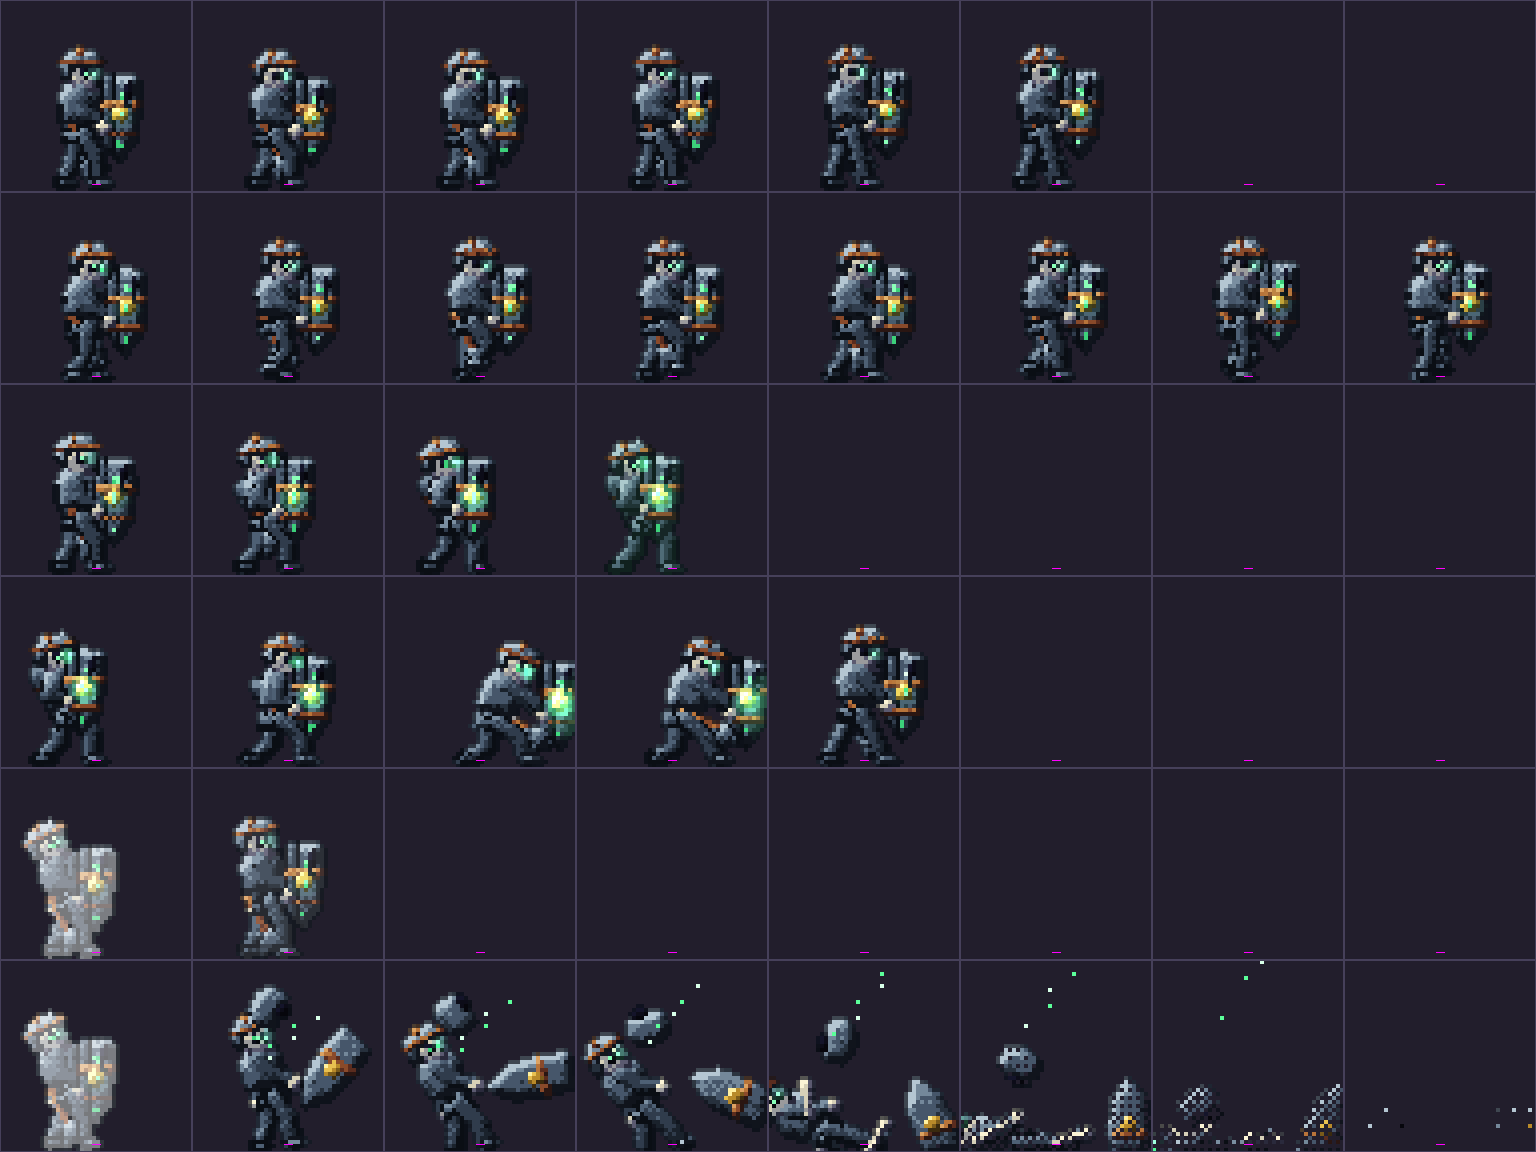
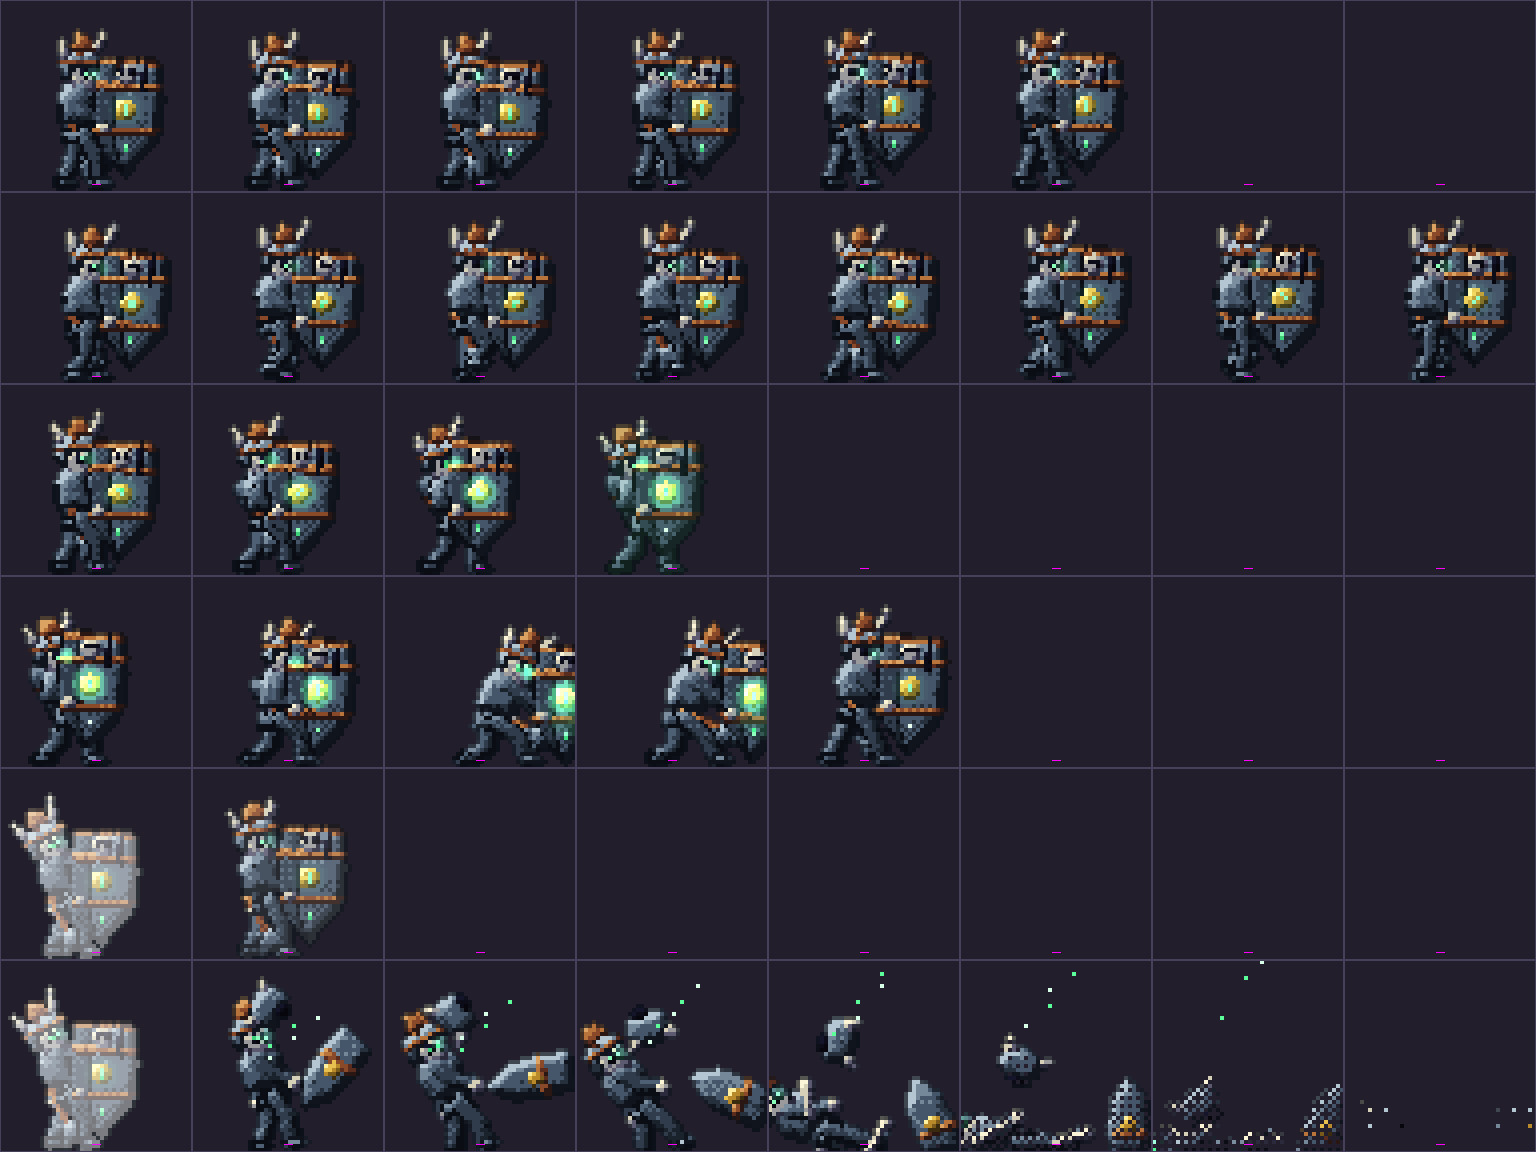
Enemigos (piloto): escudero de hueso con escudo de torre grande y yelmo con cuernos y cresta
Claude-Session: https://claude.ai/code/session_011eeWNo3MRZcztybaatA5Az

diff --git a/tools/art_enemies/en_nuevos_a.py b/tools/art_enemies/en_nuevos_a.py
@@ -84,34 +84,46 @@ def esc_head(c, x, y, ang, P):
         with c.part(RUSTY, bevel=0.8) as p:
             p.limb((-4.8, -2.6), (4.6, -3.0), 0.55)                                           # banda oxidada
             p.ell(-1.0, -5.0, 0.9)
+        if not P.get('nohorn'):                                                               # cuernos de hueso (en la muerte se van con el yelmo)
+            with c.part(BONE, line=0.4, bevel=0.9) as p:
+                p.poly([(-4.4, -3.2), (-5.8, -4.2), (-6.0, -9.0), (-4.4, -6.6), (-3.2, -5.2)])
+                p.poly([(2.8, -5.0), (4.8, -6.0), (5.4, -11.6), (3.6, -8.2), (1.6, -5.6)])
+        with c.part(RUSTY, line=0.4, bevel=0.9) as p:                                         # cresta
+            p.poly([(-2.6, -5.4), (-1.4, -9.8), (1.6, -9.0), (3.0, -5.4)])
 
 
 def esc_front(c, P, rear, front):
     """Escudo de torre en la mano cercana + la maza en la lejana."""
     hx_, hy_ = rear
     bash = P['bash']
-    with c.at(hx_ + 2.6, hy_ - 1.4, 0.04):
-        with c.part(PLATE, line=0.6, bevel=1.8) as p:
-            p.poly([(-4.2, -10.8), (4.4, -10.4), (5.0, -3), (4.6, 5.0), (0.6, 10.8), (-3.8, 5.6), (-4.8, -3)])
+    with c.at(hx_ + 3.6, hy_ - 2.2, 0.04):
+        with c.part(PLATE, line=0.6, bevel=2.0) as p:               # escudo de torre grande (cubre medio cuerpo)
+            p.poly([(-6.6, -14.0), (8.6, -13.6), (9.6, -4.0), (8.8, 6.0), (1.2, 15.0), (-5.8, 7.0), (-7.6, -4.0)])
         with c.part(PLATE_D, line=0.5, bevel=1.0) as p:
-            p.poly([(-4.2, -10.8), (-1.6, -10.7), (-1.0, 7.0), (0.6, 10.8), (-3.8, 5.6), (-4.8, -3)])      # cara en sombra
-        with c.part(RUSTY, line=0.4, bevel=1.0) as p:
-            p.poly([(-4.4, -4.2), (4.8, -4.4), (4.8, -2.2), (-4.6, -2.0)])                                 # bandas
-            p.poly([(-4.0, 3.0), (4.5, 2.8), (4.4, 4.6), (-3.8, 4.8)])
+            p.poly([(-6.6, -14.0), (-2.0, -13.9), (-1.2, 8.5), (1.2, 15.0), (-5.8, 7.0), (-7.6, -4.0)])      # cara en sombra
+        with c.part(RUSTY, line=0.4, bevel=1.0) as p:               # refuerzos oxidados y remaches
+            p.poly([(-7.2, -8.4), (9.4, -8.6), (9.4, -6.4), (-7.4, -6.2)])
+            p.poly([(-7.0, 3.2), (9.0, 3.0), (8.6, 5.0), (-6.6, 5.4)])
+            p.poly([(-6.6, -14.0), (8.6, -13.6), (8.7, -12.2), (-6.6, -12.6)])           # remate superior
         with c.part(GOLDT, bevel=0.8) as p:
-            p.ell(0.4, -1.0, 2.0)                                                                           # ombligo
-        with c.part(RUNE) as p:
-            p.rect(-0.2, -6.6, 1.0, -5.0); p.rect(-0.2, 6.0, 1.0, 7.4)
-            p.limb((0.4, -1.6), (0.4, -0.2), 0.45)
-        c.glow(0.4, -1.0, 4.2, SOUL, 0.10 + 0.55 * P['glow'])
+            p.ell(0.8, -1.4, 2.7)                                                          # umbo
+        with c.part(BONE, bevel=0.7, line=0.3) as p:                # calavera emblema
+            p.ell(0.8, -10.6, 2.6, 2.3)
+            p.rect(-0.6, -9.2, 2.2, -7.6)
         with c.part(DARK) as p:
-            p.poly([(2.4, -10.3), (3.3, -6.0), (2.2, -4.8), (3.0, -3.0), (1.6, -2.4), (1.4, -7.6)])      # grieta
+            p.ell(-0.2, -10.8, 0.7, 0.8); p.ell(1.8, -10.8, 0.7, 0.8)
+        with c.part(RUNE) as p:
+            p.rect(0.4, 7.0, 1.4, 9.0)
+            p.limb((0.8, -2.2), (0.8, -0.6), 0.45)
+        c.glow(0.8, -1.4, 5.0, SOUL, 0.10 + 0.55 * P['glow'])
+        with c.part(DARK) as p:
+            p.poly([(5.4, -13.4), (6.5, -9.0), (5.2, -7.8), (6.1, -5.8), (4.6, -5.2), (4.4, -10.4)])      # grieta
     # mano agarrando
     with c.part(BONE, bevel=0.6) as p:
         p.ell(hx_ - 1.0, hy_ + 1.0, 1.5)
     if bash > 0.7:
         for q in range(6):
-            c.dotw(hx_ + 9 + (q % 3) * 2.2, hy_ - 9 + q * 3.4, '#e8fff0' if q % 2 else SOUL)
+            c.dotw(hx_ + 11 + (q % 3) * 2.2, hy_ - 9 + q * 3.4, '#e8fff0' if q % 2 else SOUL)
         c.glow(hx_ + 7, hy_ - 1, 9, SOUL, 0.25)
 
 
@@ -152,6 +164,9 @@ def _p_shield(c):
 def _p_helm(c):
     with c.part(PLATE, line=0.5, bevel=1.8) as p:
         p.poly([(-4.8, 1.4), (-5.2, -3.4), (-2.4, -5.6), (2.8, -5.4), (4.8, -3.2), (4.4, 1.4)])
+    with c.part(BONE, bevel=0.8) as p:
+        p.poly([(-4.0, -2.4), (-5.8, -3.0), (-6.6, -6.2), (-3.4, -4.4)])
+        p.poly([(3.0, -3.8), (5.0, -4.0), (6.4, -6.8), (3.6, -5.4)])
     with c.part(DARK) as p:
         p.ell(1.0, 2.0, 1.8, 1.2)
 
@@ -168,6 +183,7 @@ def death_escudero(c, i, n):
         return
     u = i / (n - 1)
     P = esc_pose('hurt', 1, 2)
+    P['nohorn'] = True
     ang = kf(u, [(0, 0), (0.35, -0.35), (0.7, -1.2), (1.0, -1.57)])
     P['feet'] = (kf(u, [(0, -3), (1, -6)]), 0), (kf(u, [(0, 3), (1, 5)]), 0)
     P['glow'] = 0
